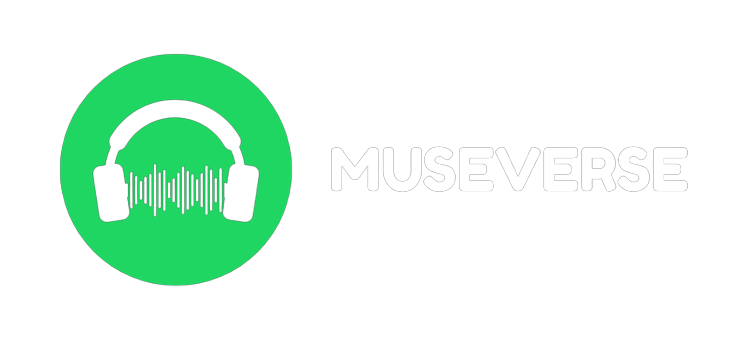
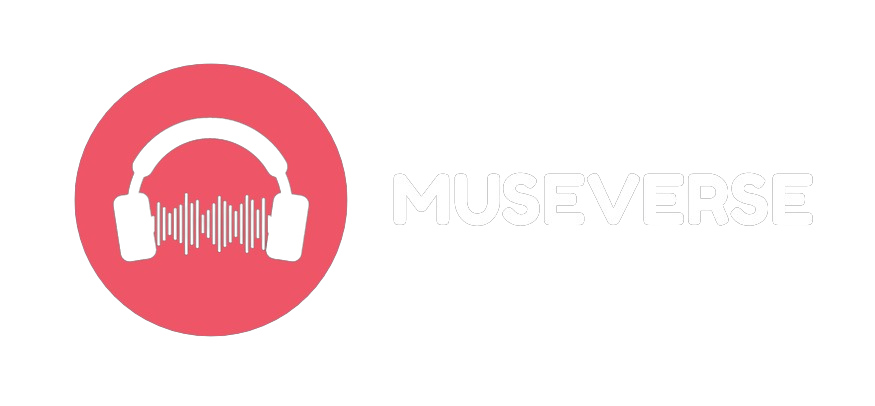
sửa màu

diff --git a/museverse/src/Artists/Artists.js b/museverse/src/Artists/Artists.js
@@ -74,9 +74,9 @@ function Artist() {
                 
                 if (brightness > 160) {
                   const darkenedColor = [
-                    Math.max(0, color[0] - 50), 
-                    Math.max(0, color[1] - 50), 
-                    Math.max(0, color[2] - 50), 
+                    Math.max(0, color[0] - 100), 
+                    Math.max(0, color[1] - 100), 
+                    Math.max(0, color[2] - 100), 
                   ];
                   const hexColor = `#${darkenedColor[0].toString(16).padStart(2, '0')}${darkenedColor[1].toString(16).padStart(2, '0')}${darkenedColor[2].toString(16).padStart(2, '0')}`;
                   setBackgroundColor(hexColor);
@@ -110,7 +110,7 @@ function Artist() {
                 </div>
                 <div className='flex gap-6 items-center flex-col justify-center'>
                     <div className="flex flex-col gap-1">
-                        <p className="font-medium text-lg text-white">Artist</p>
+                        <p className="font-medium text-lg text-[white]">Artist</p>
                         <h1 className="text-5xl text-white font-bold">{data.name}</h1>
                         <h3 className="text-base text-white text-opacity-80 font-base">{formatNumber(data.followers.total)} người theo dõi</h3>
                     </div>
@@ -141,14 +141,14 @@ function PlayButton() {
     return (
         <div className="flex flex-row ml-10 gap-5 -mt-5">
             <button className="bg-[#EE5566] rounded-full w-12 h-12 flex justify-center items-center">
-                <BsPlayFill className="text-black text-3xl" />
+                <BsPlayFill className="text-white text-3xl" />
             </button>
             <div className='flex items-center'>
-                <button className='w-28 h-8 rounded-full border-solid border-[1px] border-black border-opacity-50 bg-black bg-opacity-20 text-white text-opacity-50'>Follow</button>
+                <button className='w-28 h-8 rounded-full border-solid border-[1px] border-[#EE5566] border-opacity-50 bg-[#EE5566] bg-opacity-80 text-white'>Follow</button>
             </div>
             <div className="flex justify-center items-center">
                 <button>
-                    <BsThreeDots className="text-white text-opacity-80 text-xl"/>
+                    <BsThreeDots className="text-[#EE5566] text-opacity-80 text-xl"/>
                 </button>
             </div>
         </div>

diff --git a/museverse/src/Artists/ArtistAlbum.js b/museverse/src/Artists/ArtistAlbum.js
@@ -14,13 +14,15 @@ function ArtistAlbum({id}) {
     const [preData, setPreData] = useState([])
     const [limit, setLimit] = useState(6)
     const [type, setType] = useState("single")
-    const [disable, setDisable] = useState(false)
+    const [choose, setChoose] = useState(true)
 
     function handleChangeType1() {
         setType('single')
+        setChoose(true)
     }
     function handleChangeType2() {
         setType('album')
+        setChoose(false)
     }
 
     useEffect(() => {
@@ -78,9 +80,6 @@ function ArtistAlbum({id}) {
             })
             .then(json => {
                 setPreData(json.data.items); // Lưu dữ liệu từ API vào state
-                if(preData == 0) {
-                    setDisable(true)
-                }
                 setLoading(false)
             })
             .catch(error => {
@@ -98,11 +97,11 @@ function ArtistAlbum({id}) {
     <div className="mt-10">
         <div className="flex flex-row justify-between">
             <div className="flex flex-row gap-5 ml-5">
-                <button onClick={handleChangeType1} className="w-20 h-7 rounded-full border-[1px] bg-transparent border-black border-opacity-60 text-white text-opacity-50">Single</button>
-                <button onClick={handleChangeType2} className={`w-20 h-7 rounded-full border-[1px] bg-transparent border-black border-opacity-60 text-white text-opacity-50 ${disable ? "hidden" : ""}`}>Album</button>
+                <button onClick={handleChangeType1} className={`w-20 h-7 rounded-full border-[1px] border-[#EE5566] border-opacity-60 text-[#EE5566] ${choose ? "bg-[#EE5566] text-white text-opacity-100" : ""}`}>Single</button>
+                <button onClick={handleChangeType2} className={`w-20 h-7 rounded-full border-[1px] border-[#EE5566] border-opacity-60 text-[#EE5566] ${(preData.length == 0) ? "hidden" : ""} ${choose ? "" : "bg-[#EE5566] text-white text-opacity-100"}`}>Album</button>
             </div>
             <div className="flex flex-row items-end mr-7">
-                <NavLink to={`/artist/${id}/discovery-all`} className="text-white text-opacity-80">Show all</NavLink>
+                <NavLink to={`/artist/${id}/discovery-all`} className="text-[#EE5566] text-opacity-80">Show all</NavLink>
             </div>
         </div>
         <div className="ml-5 mt-5">

diff --git a/museverse/src/Header/Header.js b/museverse/src/Header/Header.js
@@ -1,5 +1,5 @@
 import { useState, useEffect } from 'react'
-import { NavLink } from 'react-router-dom'
+import { NavLink, useNavigate } from 'react-router-dom'
 
 import { AiOutlineLeft, AiOutlineRight} from 'react-icons/ai'
 import { IoIosNotifications } from 'react-icons/io'
@@ -42,6 +42,7 @@ export function LoggedHeader() {
     const [notification, setNotification] = useState(false)
     const [dropdownMenu, setDropdownMenu] = useState(false)
     const [data,setData] = useState([])
+    const navigate = useNavigate()
     
     const ClientID = Spotify.ClientID
     const ClientSecret = Spotify.ClientSecret
@@ -91,11 +92,11 @@ export function LoggedHeader() {
         <>
             <div className="flex justify-between items-center bg-[#171719] h-16 mx-auto">
                 <div className="flex gap-2 ml-4">
-                    <button className="text-[#EBEBFF0D] bg-[#1F1F22] rounded-full h-10 w-10 flex justify-center items-center hover:border-2 hover:text-white hover:border-white">
+                    <button onClick={()=>{navigate(-1)}} className="text-[#EBEBFF0D] bg-[#1F1F22] rounded-full h-10 w-10 flex justify-center items-center hover:border-2 hover:text-white hover:border-white">
                         <AiOutlineLeft />
                     </button>
 
-                    <button className="text-[#EBEBFF0D] bg-[#1F1F22] rounded-full h-10 w-10 flex justify-center items-center hover:border-2 hover:text-white hover:border-white">
+                    <button onClick={()=>{navigate(1)}} className="text-[#EBEBFF0D] bg-[#1F1F22] rounded-full h-10 w-10 flex justify-center items-center hover:border-2 hover:text-white hover:border-white">
                         <AiOutlineRight />
                     </button>
                 </div>

diff --git a/museverse/src/Artists/ArtistAppear.js b/museverse/src/Artists/ArtistAppear.js
@@ -42,9 +42,9 @@ function ArtistAppear({id}) {
     return (
         <div className='mt-7'>
             <div className="flex flex-row gap-5 justify-between">
-                <h3 className="text-white text-lg text-opacity-80 font-semibold font-base ml-7">Appear on</h3>
+                <h3 className="text-[#EE5566] text-lg text-opacity-80 font-semibold font-base ml-7">Appear on</h3>
                 <div className="flex flex-row items-end mr-7">
-                    <NavLink to={`/artist/${id}/appear-on`} className="text-white text-opacity-80">Show all</NavLink>
+                    <NavLink to={`/artist/${id}/appear-on`} className="text-[#EE5566] text-opacity-80">Show all</NavLink>
                 </div>
             </div>
             <div className="flex flex-row flex-wrap gap-5 justify-center mt-4">

diff --git a/museverse/src/Artists/RelatedArtist.js b/museverse/src/Artists/RelatedArtist.js
@@ -44,9 +44,9 @@ function RelatedArtist({id}) {
   return (
     <div className='mt-10'>
         <div className="flex flex-row gap-5 justify-between">
-            <h3 className="text-white text-lg text-opacity-80 font-semibold font-base ml-7">Related artists</h3>
+            <h3 className="text-[#EE5566] text-lg text-opacity-80 font-semibold font-base ml-7">Related artists</h3>
             <div className="flex flex-row items-end mr-7">
-                <NavLink to={`/artist/${id}/related-artists`} className="text-white text-opacity-80">Show all</NavLink>
+                <NavLink to={`/artist/${id}/related-artists`} className="text-[#EE5566] text-opacity-80">Show all</NavLink>
             </div>
         </div>
         <div className="flex flex-row flex-wrap justify-start ml-5 gap-5">

diff --git a/museverse/src/Artists/ArtistTrack.js b/museverse/src/Artists/ArtistTrack.js
@@ -44,7 +44,7 @@ function ArtistTrack({id}) {
     return (
         <div className='flex justify-center'>
            <div className='w-full flex flex-col justify-center ml-10 mt-5'>
-            <h1 className="text-white text-opacity-90 text-bold text-xl">Popular</h1>
+            <h1 className="text-[#EE5566] text-opacity-90 font-semibold text-lg">Popular</h1>
                 <div className='mt-5'>
                 {
                     data.map((item, index) => (
